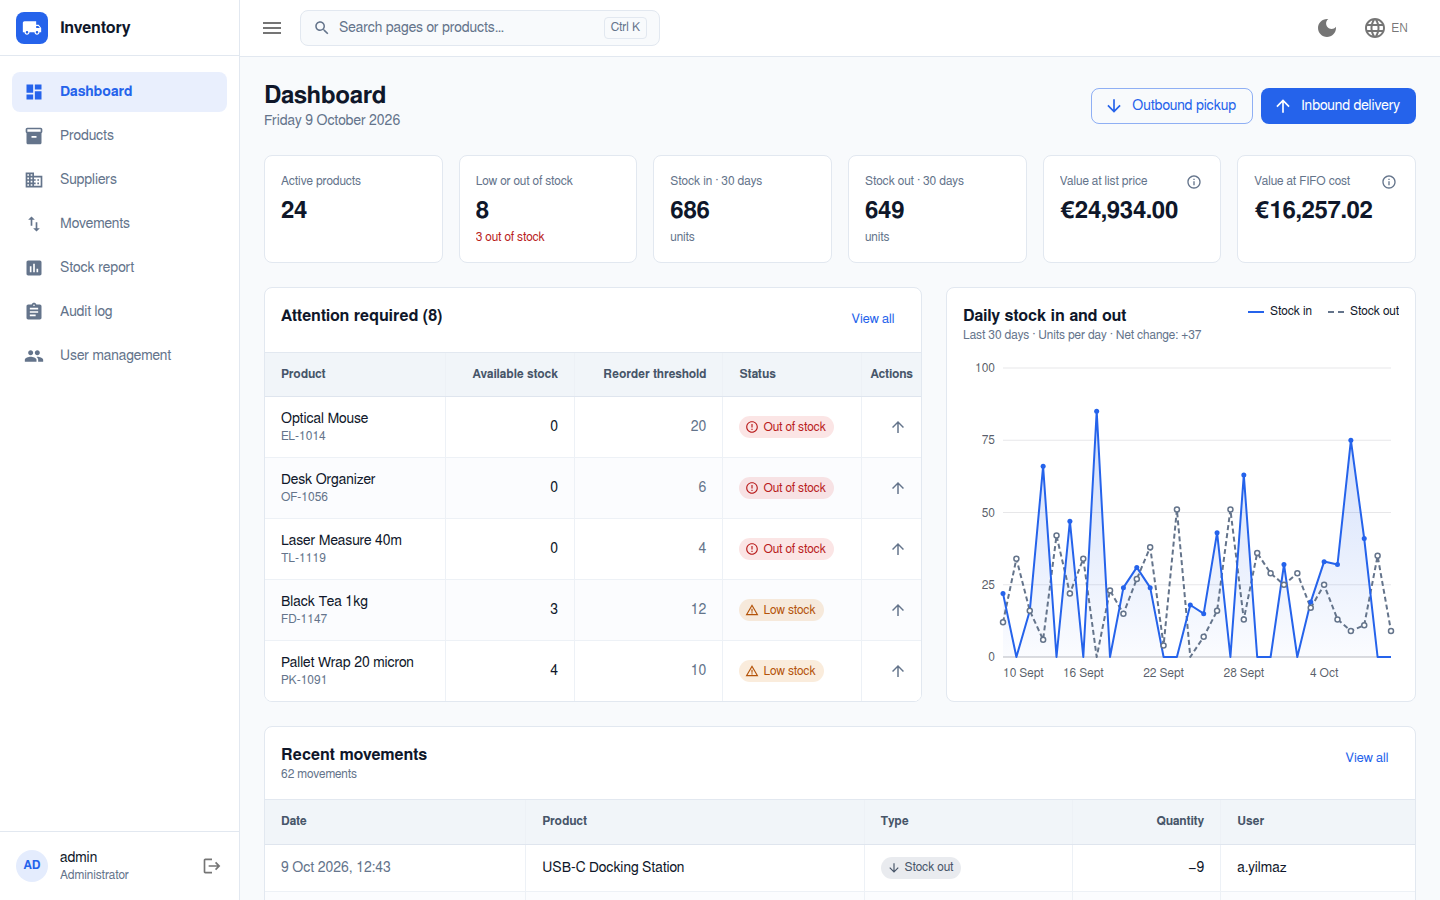
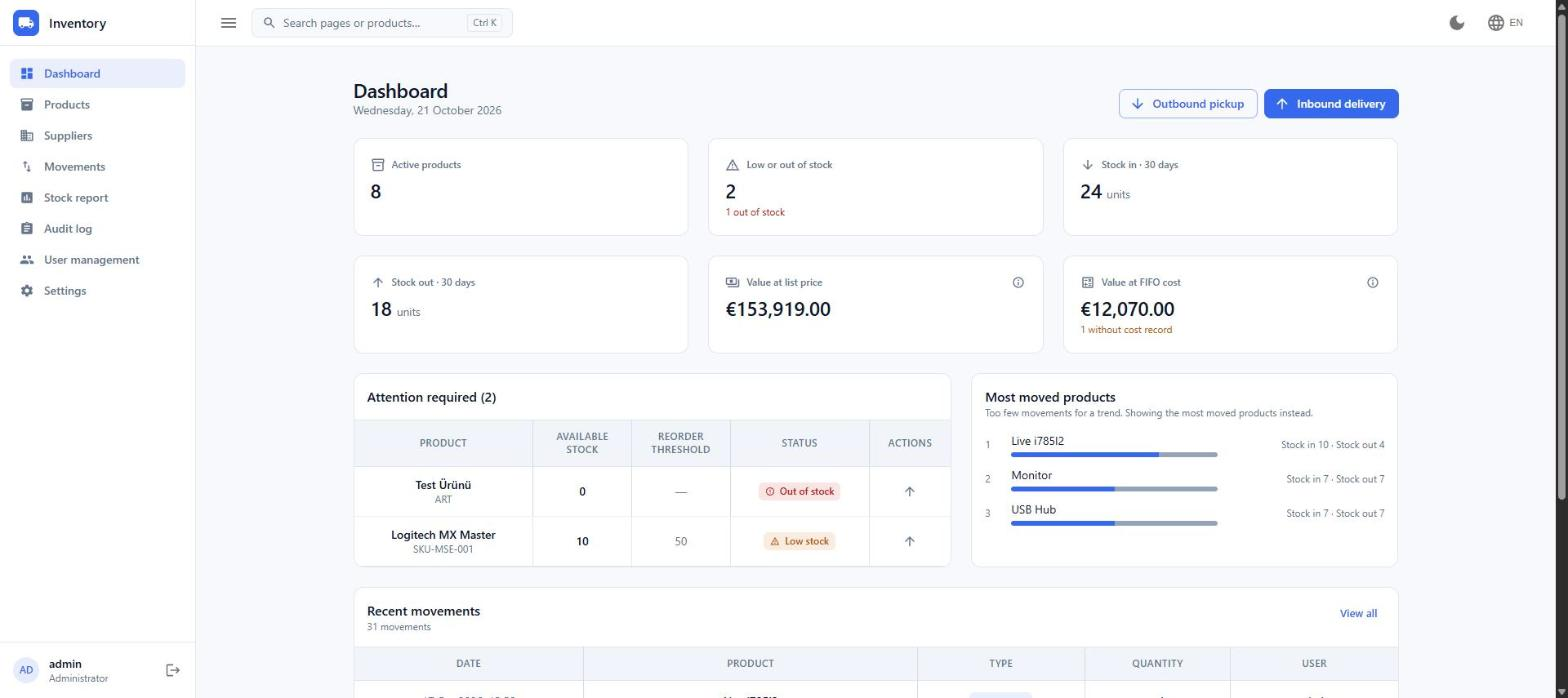
docs: refresh Inventory README screenshots from the current build
Claude-Session: https://claude.ai/code/session_015qBbo3vcrUBXtJFoZQBcCu

diff --git a/README.md b/README.md
@@ -33,7 +33,7 @@ Captured at 1440x900 from the real frontend code against a small throwaway mock 
 | Users | Login |
 | ![Users](docs/screenshots/inventory-users.png) | ![Login](docs/screenshots/inventory-login.png) |
 
-More in [docs/screenshots](docs/screenshots): empty, loading and error states, German and Turkish, dark mode and 1920x1080.
+The eight main screens above were captured from the current build. [docs/screenshots](docs/screenshots) also holds older captures (empty, loading and error states, German and Turkish, dark mode, 1920x1080) taken before the latest table redesign.
 
 ## Architecture
 
